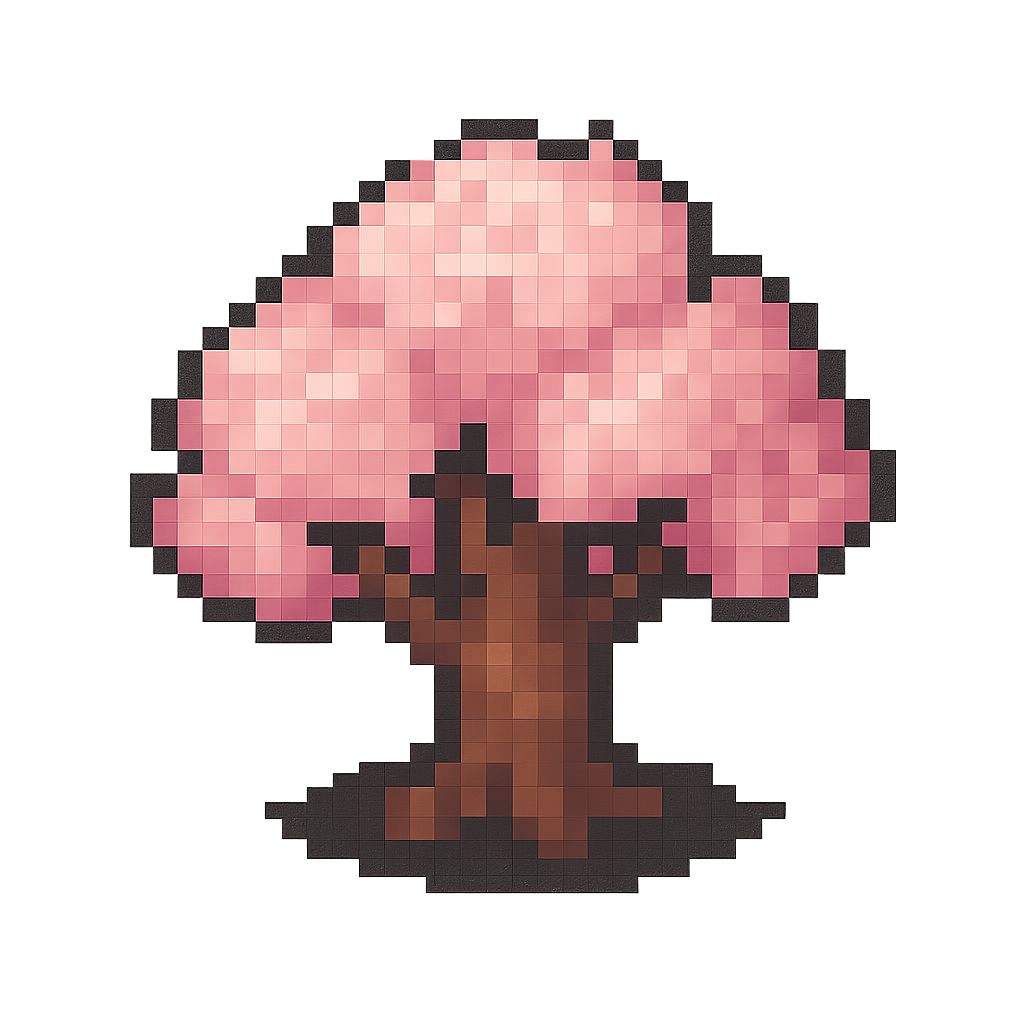
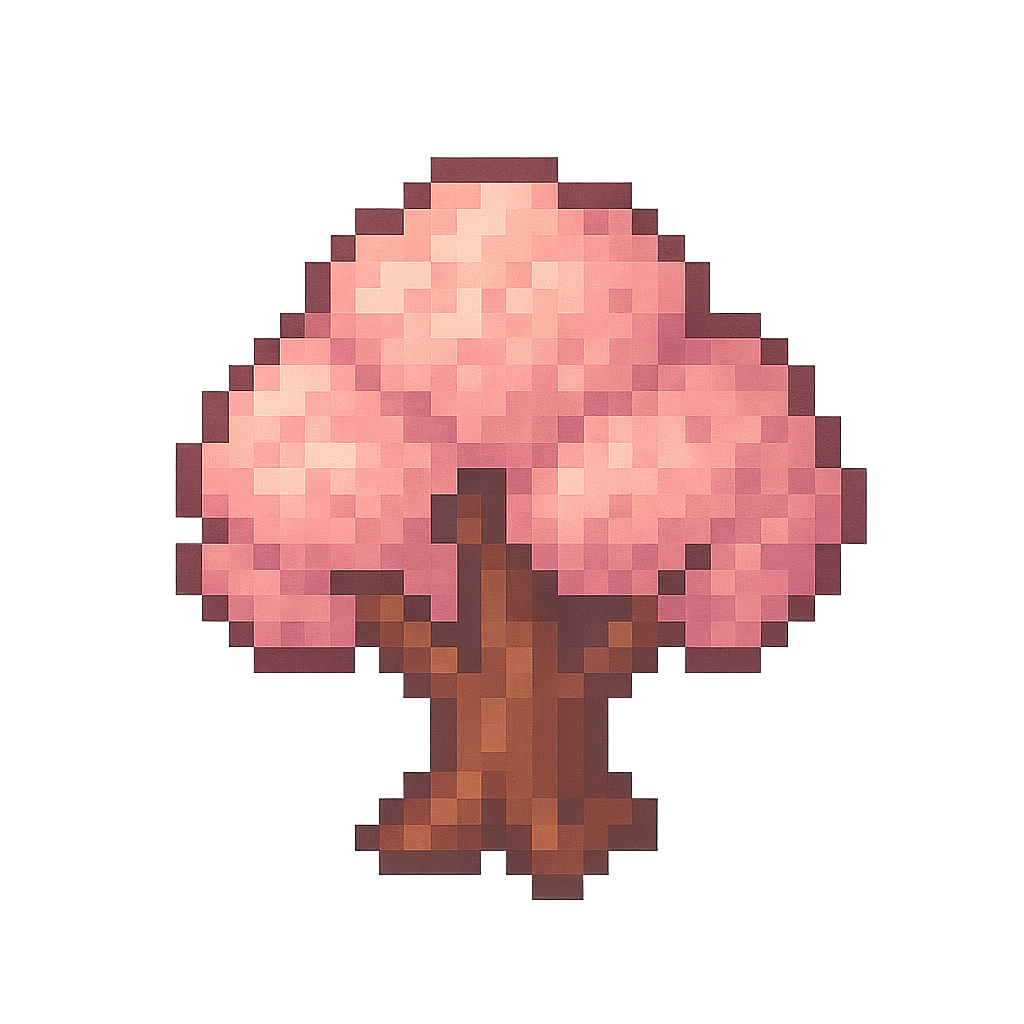
[FE] fix : 에셋 목록 조회 api 수정

Changed region(s): [[0.125, 0.0938, 0.875, 0.9062]]

diff --git a/cocos-forest-fe/cocosforest/src/screens/HomeScreen.tsx b/cocos-forest-fe/cocosforest/src/screens/HomeScreen.tsx
@@ -1,5 +1,5 @@
 import React, { useState, useCallback, useEffect, useRef } from "react";
-import { View, Text, Modal, Pressable, LayoutChangeEvent, Alert, Image } from "react-native";
+import { View, Text, Modal, Pressable, LayoutChangeEvent, Alert, Image, ScrollView } from "react-native";
 import { PinchGestureHandler, PanGestureHandler, State as GestureState } from "react-native-gesture-handler";
 import InfoBar from "../components/homescreen/InfoBar";
 import Coco from "../components/homescreen/Coco";
@@ -10,6 +10,7 @@ import { computeTopMargin, computeBoardHeight, computeBoardWidth } from "../util
 import { useCells, projectMarkers, useMarkerSet } from "../hooks/useForestData";
 import type { Cell, Marker, ForestInfoDto } from "../types/forest";
 import { fetchForestInfo, fetchPoints, plantTree, waterTree, removeDeadTree, expandForest, listAssets, type AssetDto } from "../api/home";
+import { getSpriteByKey } from "../assets/spriteMap";
 import { LinearGradient } from "expo-linear-gradient";
 
 export default function HomeScreen() {
@@ -385,13 +386,14 @@ export default function HomeScreen() {
     actionLoading ? s.modalBtnDisabled : s.modalBtnWater
   ];
 
-  // Load assets (trees) when needed
+  // Load assets (all categories) when needed
   const loadAssetsForPlanting = useCallback(async () => {
     try {
       setAssetsLoading(true);
       const all = await listAssets();
-      const treeAssets = all.filter(a => a.categoryId === 1 || a.categoryId === 2);
-      setAssets(treeAssets);
+      // Include all active assets; backend may flag inactive ones.
+      const active = all.filter(a => a.active !== false);
+      setAssets(active);
     } catch (error) {
       console.error('Failed to load assets:', error);
     } finally {
@@ -547,31 +549,46 @@ export default function HomeScreen() {
             
             {!hasTreeData && (
               <View>
-                <Text style={s.modalHint}>나무 선택</Text>
-                <View style={{ flexDirection: 'row', flexWrap: 'wrap', gap: 8, marginTop: 8 }}>
-                  {assetsLoading && (
-                    <Text style={s.modalText}>불러오는 중...</Text>
-                  )}
-                  {!assetsLoading && assets.map((a) => (
-                    <Pressable
-                      key={a.id}
-                      onPress={() => setSelectedAssetId(a.id)}
-                      style={{
-                        paddingVertical: 8,
-                        paddingHorizontal: 12,
-                        borderRadius: 8,
-                        borderWidth: 2,
-                        borderColor: selectedAssetId === a.id ? '#2563EB' : '#CBD5E1',
-                        backgroundColor: selectedAssetId === a.id ? '#DBEAFE' : '#F1F5F9',
-                        marginRight: 8,
-                        marginBottom: 8,
-                      }}
-                    >
-                      <Text style={{ fontWeight: '700', color: '#0F172A' }}>{a.name}</Text>
-                      <Text style={{ color: '#334155', marginTop: 2 }}>{(a.pricePoints ?? 0).toLocaleString()} P</Text>
-                    </Pressable>
-                  ))}
-                </View>
+                <Text style={s.modalHint}>에셋 선택</Text>
+                <ScrollView style={{ marginTop: 8, maxHeight: 260 }}>
+                  <View style={{ flexDirection: 'row', flexWrap: 'wrap' }}>
+                    {assetsLoading && (
+                      <Text style={s.modalText}>불러오는 중...</Text>
+                    )}
+                    {!assetsLoading && assets.map((a) => {
+                      const sprite = getSpriteByKey(a.spriteKey || undefined);
+                      const selected = selectedAssetId === a.id;
+                      return (
+                        <Pressable
+                          key={a.id}
+                          onPress={() => setSelectedAssetId(a.id)}
+                          style={{
+                            width: 88,
+                            height: 100,
+                            borderRadius: 10,
+                            borderWidth: 2,
+                            borderColor: selected ? '#2563EB' : '#CBD5E1',
+                            backgroundColor: selected ? '#DBEAFE' : '#F8FAFC',
+                            alignItems: 'center',
+                            justifyContent: 'center',
+                            marginRight: 8,
+                            marginBottom: 8,
+                            padding: 6,
+                          }}
+                        >
+                          {sprite ? (
+                            <Image source={sprite} style={{ width: 60, height: 60, resizeMode: 'contain' }} />
+                          ) : (
+                            <Text style={{ fontWeight: '700', color: '#0F172A', textAlign: 'center' }}>{a.name}</Text>
+                          )}
+                          <Text style={{ color: '#334155', marginTop: 4, fontSize: 12 }}>
+                            {(a.pricePoints ?? 0).toLocaleString()} P
+                          </Text>
+                        </Pressable>
+                      );
+                    })}
+                  </View>
+                </ScrollView>
               </View>
             )}
 

diff --git a/cocos-forest-fe/cocosforest/src/assets/spriteMap.ts b/cocos-forest-fe/cocosforest/src/assets/spriteMap.ts
@@ -20,6 +20,14 @@ const SPRITES: Record<string, any> = {
   "home/decorations/tree/orange_tree.png": require("../../assets/home/decorations/tree/orange_tree.png"),
   "home/decorations/tree/small_tree.png": require("../../assets/home/decorations/tree/small_tree.png"),
   "home/decorations/tree/tree.png": require("../../assets/home/decorations/tree/tree.png"),
+  "home/decorations/tree/apple_tree.png": require("../../assets/home/decorations/tree/apple_tree.png"),
+  "home/decorations/tree/snow_tree.png": require("../../assets/home/decorations/tree/snow_tree.png"),
+
+  // characters
+  "home/decorations/character/coco.png": require("../../assets/home/decorations/character/coco.png"),
+  "home/decorations/character/coco_travler.png": require("../../assets/home/decorations/character/coco_travler.png"),
+  "home/decorations/character/eren.png": require("../../assets/home/decorations/character/eren.png"),
+  "home/decorations/character/mikasa.png": require("../../assets/home/decorations/character/mikasa.png"),
 };
 
 // Some DB rows might omit subfolders (e.g., home/decorations/poppy.png)
@@ -29,6 +37,7 @@ const FALLBACK_DIRS = [
   "home/decorations/tree/",
   "home/decorations/obstacle/",
   "home/decorations/torch/",
+  "home/decorations/character/",
 ];
 
 export function getSpriteByKey(spriteKey?: string) {
